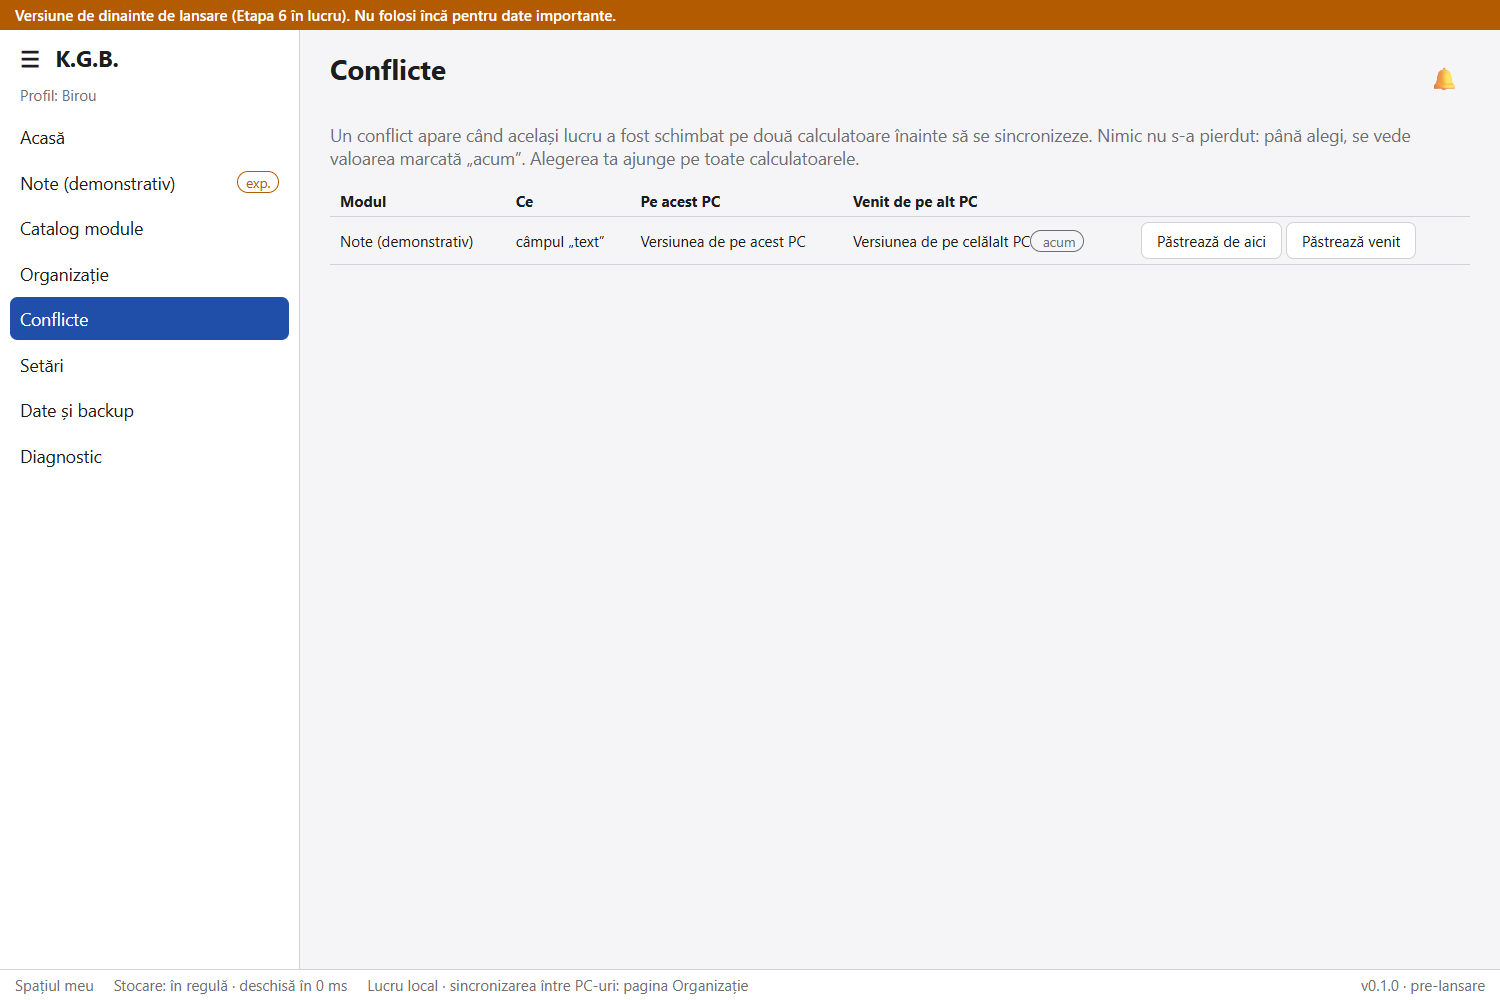
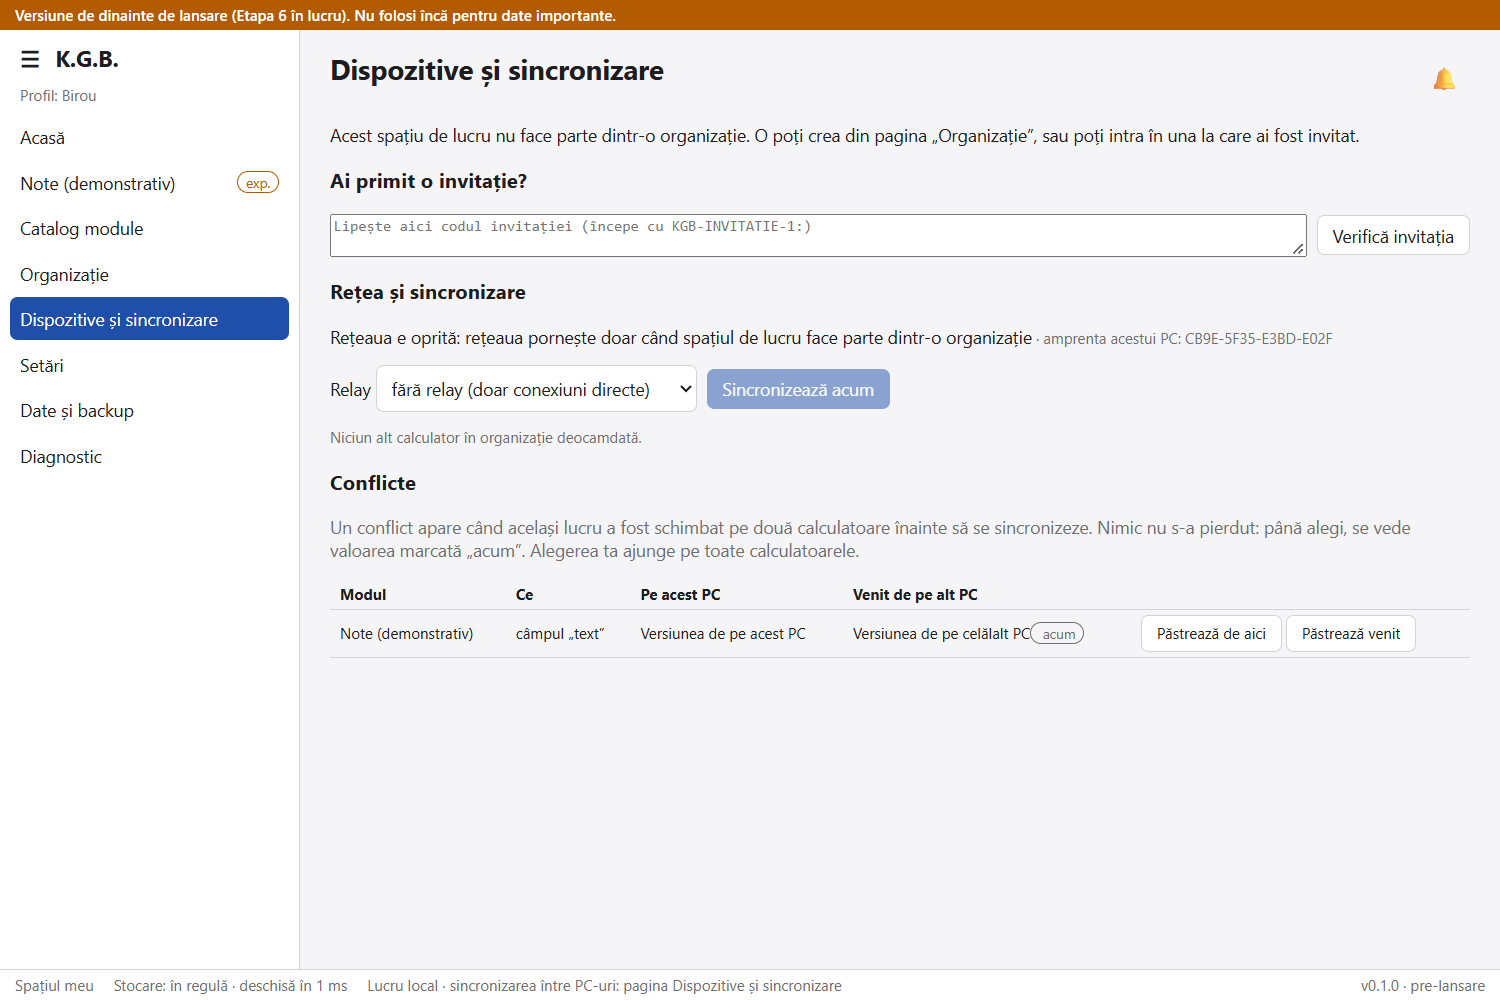
6.9: pagina „Dispozitive și sincronizare”
- o singură pagină pentru calculatoarele organizației: rețeaua și relay-ul,
  lista tuturor calculatoarelor (acest PC, celelalte, revocate, ale
  persoanelor scoase) cu ultima sincronizare și calea, cererile noi și
  invitațiile, răspunsul la o invitație pe un PC nou, conflictele
- „Organizație” rămâne pentru persoane și roluri
- catalogul nu mai arată „Dispozitive și sincronizare” ca planificat
- teste: 213 trec; e2e rețea 15/15, organizație 11/11, invitație 11/11,
  conflicte 6/6, testul general 15/15

diff --git a/app/src/pages/DevicesPage.tsx b/app/src/pages/DevicesPage.tsx
@@ -1,0 +1,119 @@
+// "Dispozitive și sincronizare" (Etapa 6, step 6.9): everything about the
+// organization's computers in one place — the network, every device (this
+// PC, the others, the revoked), new devices waiting for approval, answering
+// an invitation on a new PC, and the synchronisation conflicts.
+// People and roles stay on the "Organizație" page.
+import { useCallback, useEffect, useState } from "react";
+import { api, message, type DeviceRow, type OrgReply } from "../api";
+import { ConflictsPage } from "./ConflictsPage";
+import { JoinOrg, Requests } from "./Devices";
+import { NetPanel } from "./NetPanel";
+
+const when = (ms: number | null) => {
+  if (!ms) return "—";
+  const d = new Date(ms);
+  const p = (n: number) => String(n).padStart(2, "0");
+  return `${p(d.getDate())}.${p(d.getMonth() + 1)} ${p(d.getHours())}:${p(d.getMinutes())}`;
+};
+
+function AllDevices({ tick }: { tick: number }) {
+  const [rows, setRows] = useState<DeviceRow[] | null>(null);
+  useEffect(() => {
+    let alive = true;
+    const load = () =>
+      void api
+        .netStatus()
+        .then((s) => alive && setRows(s.dispozitive))
+        .catch(() => {});
+    load();
+    const t = window.setInterval(load, 15000);
+    return () => {
+      alive = false;
+      window.clearInterval(t);
+    };
+  }, [tick]);
+  if (!rows || rows.length === 0) return null;
+  return (
+    <section>
+      <h3>Toate calculatoarele organizației</h3>
+      <table className="audit devices-table">
+        <thead>
+          <tr>
+            <th>Calculatorul</th>
+            <th>Persoana</th>
+            <th>Amprenta</th>
+            <th>Stare</th>
+            <th>Ultima sincronizare</th>
+          </tr>
+        </thead>
+        <tbody>
+          {rows.map((d) => (
+            <tr key={d.fingerprint} className={d.revocat || d.persoana_scoasa ? "denied" : ""}>
+              <td>{d.label}</td>
+              <td>{d.member}</td>
+              <td className="fingerprint">{d.fingerprint}</td>
+              <td>{d.acesta ? "acest PC" : d.revocat ? "revocat" : d.persoana_scoasa ? "persoana a fost scoasă" : "activ"}</td>
+              <td>
+                {d.acesta ? "—" : when(d.ok_ms)}
+                {d.path && !d.acesta ? ` (${d.path === "direct" ? "directă" : "prin relay"})` : ""}
+              </td>
+            </tr>
+          ))}
+        </tbody>
+      </table>
+      <p className="muted small">
+        Un calculator revocat nu mai primește și nu mai trimite nimic. Ce a copiat deja rămâne pe el: K.G.B. nu poate șterge date de pe alt PC de la
+        distanță.
+      </p>
+    </section>
+  );
+}
+
+export function DevicesPage({ onError }: { onError: (e: string | null) => void }) {
+  const [org, setOrg] = useState<OrgReply | null>(null);
+  const [tick, setTick] = useState(0);
+
+  const load = useCallback(async () => {
+    try {
+      setOrg(await api.org());
+    } catch (e) {
+      onError(message(e));
+    }
+    setTick((t) => t + 1);
+  }, [onError]);
+  useEffect(() => {
+    void load();
+  }, [load]);
+
+  const run = async (f: () => Promise<unknown>) => {
+    try {
+      await f();
+      onError(null);
+    } catch (e) {
+      onError(message(e));
+    }
+    await load();
+  };
+
+  if (!org) return <p className="muted">Se încarcă…</p>;
+  const admin = org.current?.role.admin ?? false;
+  return (
+    <div className="devices-page org-page">
+      {!org.organization && (
+        <>
+          <p>
+            Acest spațiu de lucru nu face parte dintr-o organizație. O poți crea din pagina „Organizație”, sau poți intra în una la care ai fost invitat.
+          </p>
+          <JoinOrg run={run} />
+        </>
+      )}
+      <NetPanel onError={onError} onSynced={() => void load()} admin={admin} />
+      {org.organization && <AllDevices tick={tick} />}
+      {admin && <Requests org={org} run={run} />}
+      <section>
+        <h3>Conflicte</h3>
+        <ConflictsPage onError={onError} />
+      </section>
+    </div>
+  );
+}

diff --git a/app/src/App.tsx b/app/src/App.tsx
@@ -16,7 +16,7 @@ import { DiagnosticsPage } from "./pages/DiagnosticsPage";
 import { Home } from "./pages/Home";
 import { SettingsPage } from "./pages/SettingsPage";
 import { OrgPage } from "./pages/OrgPage";
-import { ConflictsPage } from "./pages/ConflictsPage";
+import { DevicesPage } from "./pages/DevicesPage";
 
 /// Interfaces of the built-in modules, by module id.
 const MODULE_PAGES: Record<string, ComponentType<{ onError: (e: string | null) => void }>> = {
@@ -113,7 +113,7 @@ export function App() {
       });
     }
   }
-  nav.push({ id: "catalog", label: "Catalog module" }, { id: "org", label: "Organizație" }, { id: "conflicts", label: "Conflicte" }, { id: "settings", label: "Setări" }, { id: "data", label: "Date și backup" }, { id: "diagnostics", label: "Diagnostic" });
+  nav.push({ id: "catalog", label: "Catalog module" }, { id: "org", label: "Organizație" }, { id: "devices", label: "Dispozitive și sincronizare" }, { id: "settings", label: "Setări" }, { id: "data", label: "Date și backup" }, { id: "diagnostics", label: "Diagnostic" });
 
   // If the open module was disabled or hidden, fall back to the start page.
   useEffect(() => {
@@ -247,7 +247,7 @@ export function App() {
         {page === "settings" && (
           <SettingsPage reply={settings} info={info} onSave={saveSettings} onInfoChanged={loadInfo} onError={setError} />
         )}
-        {page === "conflicts" && <ConflictsPage onError={setError} />}
+        {page === "devices" && <DevicesPage onError={setError} />}
         {page === "org" && <OrgPage onError={setError} onChanged={() => void loadModules()} />}
         {page === "diagnostics" && <DiagnosticsPage onError={setError} />}
         {page === "data" && <DataPage onError={setError} onSwitched={() => window.location.reload()} />}
@@ -261,7 +261,7 @@ export function App() {
         <span title={info.workspace?.dir}>
           Stocare: {info.recovery?.note ?? "în regulă"} · deschisă în {info.recovery?.open_ms} ms
         </span>
-        <span>Lucru local · sincronizarea între PC-uri: pagina Organizație</span>
+        <span>Lucru local · sincronizarea între PC-uri: pagina Dispozitive și sincronizare</span>
         <span className="grow" />
         <span>
           v{info.app_version}

diff --git a/app/src/pages/OrgPage.tsx b/app/src/pages/OrgPage.tsx
@@ -4,8 +4,7 @@
 // invitations (step 6.2).
 import { useCallback, useEffect, useState, type FormEvent } from "react";
 import { ACCESS_LABEL, api, message, type Access, type Member, type OrgReply, type Role } from "../api";
-import { InviteButton, JoinOrg, Requests } from "./Devices";
-import { NetPanel } from "./NetPanel";
+import { InviteButton } from "./Devices";
 
 const ACCESSES: Access[] = ["niciunul", "citire", "scriere"];
 
@@ -39,7 +38,6 @@ export function OrgPage({ onError, onChanged }: { onError: (e: string | null) =>
     return (
       <>
         <CreateOrg org={org} run={run} />
-        <NetPanel onError={onError} onSynced={() => void load()} />
       </>
     );
 
@@ -58,9 +56,8 @@ export function OrgPage({ onError, onChanged }: { onError: (e: string | null) =>
           </ul>
         </div>
       )}
-      <NetPanel onError={onError} onSynced={() => void load()} admin={admin} />
       <Members org={org} admin={admin} run={run} />
-      {admin && <Requests org={org} run={run} />}
+      <p className="muted small">Calculatoarele, rețeaua, cererile noi și conflictele sunt în pagina „Dispozitive și sincronizare”.</p>
       <Roles org={org} admin={admin} run={run} />
     </div>
   );
@@ -92,7 +89,7 @@ function CreateOrg({ org, run }: { org: OrgReply; run: Run }) {
           Creează organizația
         </button>
       </form>
-      <JoinOrg run={run} />
+      <p className="muted small">Ai primit o invitație? Răspunde la ea din pagina „Dispozitive și sincronizare”.</p>
     </div>
   );
 }

diff --git a/app/src/api.ts b/app/src/api.ts
@@ -161,6 +161,19 @@ export interface NetStatus {
   peers: PeerView[];
   ultima_runda_ms: number | null;
   fisiere_lipsa: number;
+  dispozitive: DeviceRow[];
+  conflicte: number;
+}
+
+export interface DeviceRow {
+  fingerprint: string;
+  label: string;
+  member: string;
+  acesta: boolean;
+  revocat: boolean;
+  persoana_scoasa: boolean;
+  ok_ms: number | null;
+  path: string | null;
 }
 
 export interface SyncOutcome {

diff --git a/crates/kgb-core/src/peers.rs b/crates/kgb-core/src/peers.rs
@@ -182,3 +182,48 @@ pub fn save_network_settings(store: &mut Store, relay: &str, port: u16) -> CoreR
     store.write(vec![Write::put(NETWORK_COLLECTION, network_id(), f).expect(v)])?;
     Ok(())
 }
+
+/// One device of the organization, for the list of all devices (6.9).
+#[derive(Clone, Debug, Serialize)]
+pub struct DeviceRow {
+    pub fingerprint: String,
+    pub label: String,
+    pub member: String,
+    /// This PC.
+    pub acesta: bool,
+    pub revocat: bool,
+    /// Its person was removed from the organization.
+    pub persoana_scoasa: bool,
+    pub ok_ms: Option<u64>,
+    pub path: Option<String>,
+}
+
+/// Every device in the signed registry: this PC, the others, the revoked.
+pub fn all_devices(store: &Store, me: &str) -> CoreResult<Vec<DeviceRow>> {
+    let st = registry::verify(store)?;
+    let mut out: Vec<DeviceRow> = st
+        .devices
+        .iter()
+        .map(|(key, d)| {
+            let f = store
+                .get(PEERS_COLLECTION, id(key))
+                .ok()
+                .flatten()
+                .map(|r| r.fields)
+                .unwrap_or_default();
+            let m = st.members.get(&d.member);
+            DeviceRow {
+                fingerprint: d.fingerprint.clone(),
+                label: d.label.clone(),
+                member: m.map(|m| m.name.clone()).unwrap_or_default(),
+                acesta: key == me,
+                revocat: d.revoked,
+                persoana_scoasa: m.is_some_and(|m| !m.active),
+                ok_ms: f.get("ok_ms").and_then(Value::as_u64),
+                path: Some(s(&f, "path")).filter(|p| !p.is_empty()),
+            }
+        })
+        .collect();
+    out.sort_by(|a, b| (!a.acesta, a.revocat, &a.member, &a.label).cmp(&(!b.acesta, b.revocat, &b.member, &b.label)));
+    Ok(out)
+}

diff --git a/app/src-tauri/src/main.rs b/app/src-tauri/src/main.rs
@@ -674,6 +674,10 @@ struct NetStatus {
     ultima_runda_ms: Option<u64>,
     /// Attached files known here whose content has not arrived yet (6.8).
     fisiere_lipsa: usize,
+    /// Every device of the organization, this PC and revoked ones too (6.9).
+    dispozitive: Vec<kgb_core::peers::DeviceRow>,
+    /// Open synchronisation conflicts this person may see.
+    conflicte: usize,
 }
 
 #[tauri::command]
@@ -692,6 +696,8 @@ fn net_status(app: State<AppState>) -> CmdResult<NetStatus> {
             peers: kgb_core::peers::list(s.ws.store(), &s.device.public_hex())?,
             ultima_runda_ms: last,
             fisiere_lipsa: kgb_core::blobs::missing(s.ws.store())?.len(),
+            dispozitive: kgb_core::peers::all_devices(s.ws.store(), &s.device.public_hex())?,
+            conflicte: conflicts::list(&s.ws, Some(&s.device.fingerprint()))?.len(),
         })
     })
 }

diff --git a/crates/kgb-core/src/modules.rs b/crates/kgb-core/src/modules.rs
@@ -55,18 +55,11 @@ pub struct Planned {
     pub stage: &'static str,
 }
 
-pub const PLANNED: &[Planned] = &[
-    Planned {
-        id: "devices",
-        name: "Dispozitive și sincronizare",
-        stage: "Etapa 6",
-    },
-    Planned {
-        id: "news",
-        name: "Informații și InfoNews",
-        stage: "Etapa 7",
-    },
-];
+pub const PLANNED: &[Planned] = &[Planned {
+    id: "news",
+    name: "Informații și InfoNews",
+    stage: "Etapa 7",
+}];
 
 /// A built-in module. UI and domain logic stay separate: the module answers
 /// commands with JSON; the React side renders it.

diff --git a/WORKLIST.md b/WORKLIST.md
@@ -119,7 +119,7 @@ Interdicții permanente: fără baze de date (D-005, D-018), fără schimbări d
 - [x] 6.6 Offline și reconectare: coada e chiar jurnalul local (ce n-a plecat pleacă la următoarea rundă, în ordine); testat cu procese oprite brusc: primitorul oprit de 19 ori în mijlocul aplicării unui răspuns de 12.000 de note → spațiul se deschide de fiecare dată, nimic pierdut, nimic aplicat de două ori, runda următoare termină; cel care răspunde oprit în timp ce trimite (9 întreruperi) → răspunsul se aplică tot sau deloc; 201 schimbări făcute offline ajung toate; reparat: un conflict (sau o decizie) se scrie acum înaintea schimbării, ca o oprire între ele să nu-l piardă; un PC tăcut e abandonat după 10 s în loc de timpul implicit QUIC. Installerul nu a fost refăcut la acest pas (doar biblioteca de rețea și stocarea, testate direct)
 - [x] 6.7 Revocare (D-060): un administrator revocă un calculator (nu pe cel propriu); persoana rămâne în organizație; registrul semnat marchează calculatorul revocat, iar revocarea ajunge la toate calculatoarele prin sincronizare; calculatorul revocat nu mai primește și nu mai poate trimite nimic; schimbările lui de dinainte rămân valabile, cele de după sunt refuzate oriunde se știe de revocare, chiar dacă vin prin alt PC; cheia revocată nu mai poate fi aprobată cu o invitație nouă; limită spusă clar în aplicație: ce a copiat deja rămâne pe acel PC, iar un PC care încă nu știa de revocare poate fi primit de la el schimbări în acest timp; 1 test în nucleu (3 calculatoare) + e2e
 - [x] 6.8 Fișiere mari: înregistrările fișierelor atașate și ale versiunilor de documente se sincronizează după modulul lor (doar la rolurile care îl pot citi); conținutul vine separat, pe un canal propriu, în aceeași rundă; un transfer tăiat păstrează ce a sosit și continuă de acolo; fișierul complet e verificat cu BLAKE3 înainte de folosire (o bucată alterată e ștearsă și cerută din nou); un PC trimite un fișier doar unui dispozitiv al organizației care poate citi modulul lui; mesaj clar dacă un fișier n-a sosit încă; testat: 20 MB tăiat la 5 MB și reluat, bucată alterată, cerere fără drept refuzată, procesul care trimite oprit brusc la ~3 MB dintr-un fișier de 60 MB și reluat; e2e rețea cu fișier atașat
-- [ ] 6.9 Modulul „Dispozitive și sincronizare”; e2e
+- [x] 6.9 Pagina „Dispozitive și sincronizare” (în meniu, ca parte a nucleului, nu un modul separat): starea rețelei și relay-ul, lista tuturor calculatoarelor organizației (acest PC, celelalte, revocate, ale persoanelor scoase), cu ultima sincronizare și calea, cererile calculatoarelor noi și invitațiile (administratori), răspunsul la o invitație pe un PC nou, conflictele; pagina „Organizație” rămâne pentru persoane și roluri; catalogul nu mai arată „Dispozitive și sincronizare” ca modul planificat; e2e actualizate (rețea, invitație, conflicte, organizație)
 - [ ] 🔒 6.10 Test pe două PC-uri, LAN + internet, cu întreruperi (fostul S2.3) — cere al doilea PC
 - [ ] 6.11 Raport Etapa 6 (`docs/ETAPA6_RAPORT.md`)
 - [ ] 🔒 6.12 Poarta Etapei 6
